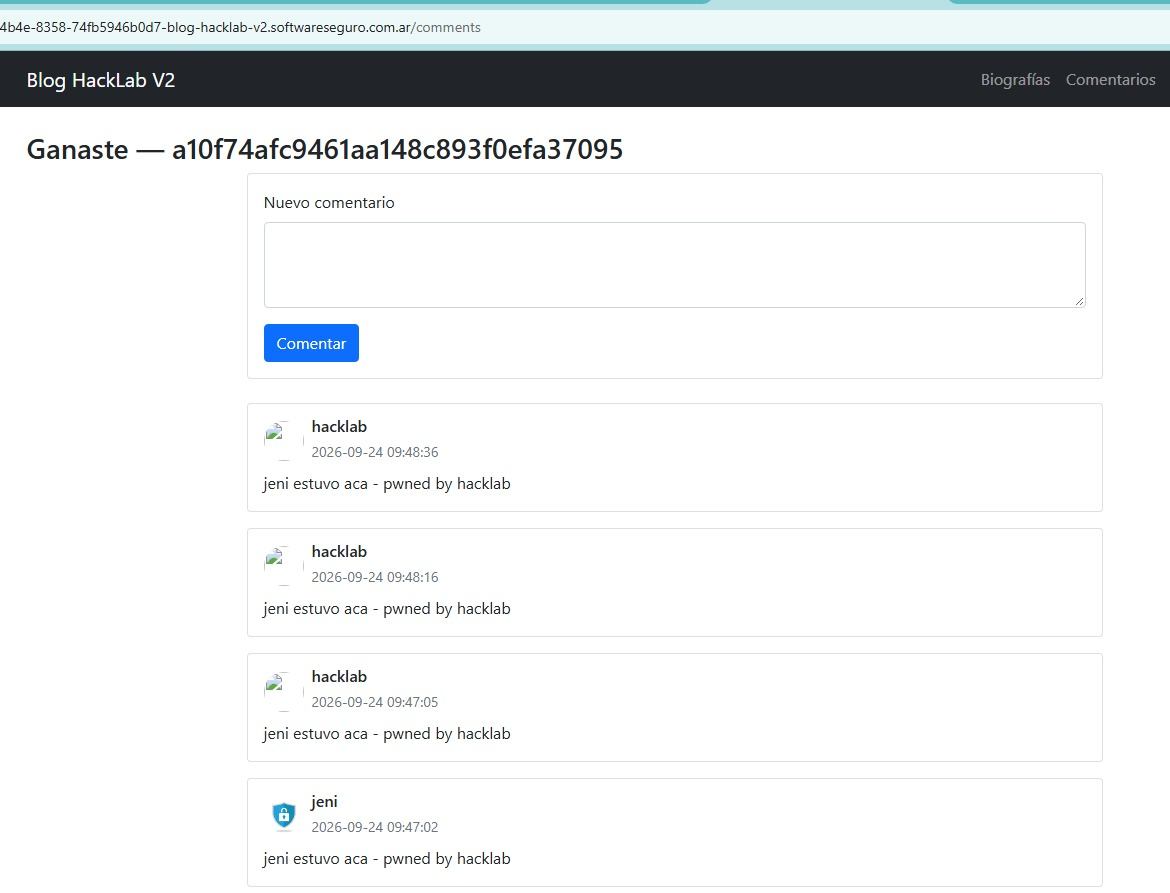
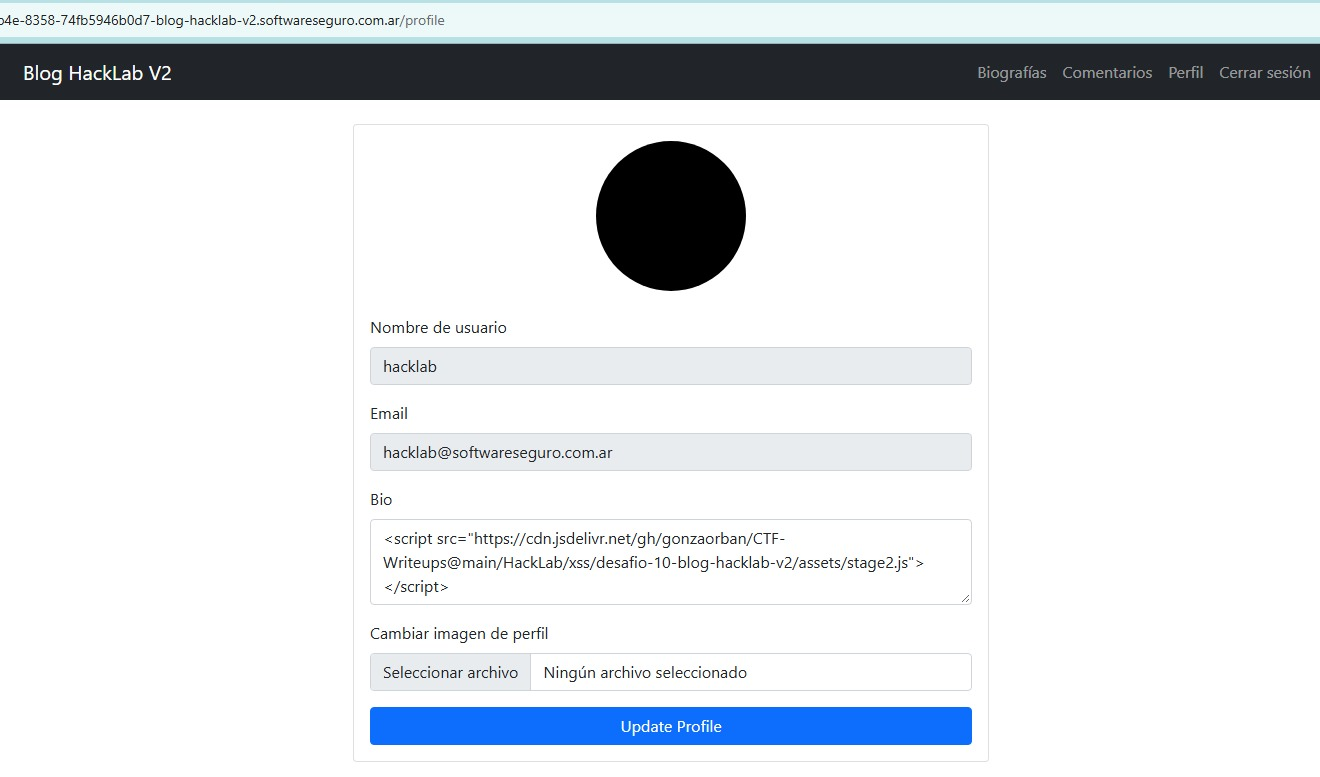
fix(HackLab/xss/desafio-10-blog-hacklab-v2): reordenar capturas y documentar prueba de no-sanitización
- 01.png: prueba de que la bio no se sanitiza (<b>xsstest</b> en negrita), movida a Análisis
- Renumeradas 02-04 (bio envenenada, payload en perfil, flag)
- README raíz: bloque Featured Techniques ahora cubre V1 (nonce) y V2 (script-src * + cadena de dos etapas)

diff --git a/HackLab/xss/desafio-10-blog-hacklab-v2/README.md b/HackLab/xss/desafio-10-blog-hacklab-v2/README.md
@@ -20,6 +20,10 @@ Las primitivas de la vulnerabilidad son las mismas del Desafío 9:
   <p class="mb-0 mt-2"><b>xsstest</b></p>
   ```
 
+  Cargando `/biographies`, la bio de `@pepe` aparece en negrita, lo que confirma que la bio no se sanitiza y que un `<script src>` inyectado ahí se ejecutará:
+
+  ![Desafío 10 - Blog HackLab V2 (HackLab 2026) - prueba: la bio <b>xsstest</b> se renderiza en negrita en /biographies](assets/01.png)
+
 - **CSP mal configurada** en el `<head>`:
 
   ```html
@@ -72,11 +76,11 @@ await fetch("/profile", {
 
 Como Pepe es experto, su bio ya envenenada pasa a mostrarse en `/biographies`:
 
-![Desafío 10 - Blog HackLab V2 (HackLab 2026) - bio de Pepe envenenada con el segundo script en /biographies](assets/01.png)
+![Desafío 10 - Blog HackLab V2 (HackLab 2026) - bio de Pepe envenenada con el segundo script en /biographies](assets/02.png)
 
 El payload almacenado se puede confirmar abriendo la sección Perfil: el campo Bio contiene el `<script src=".../stage2.js"></script>`.
 
-![Desafío 10 - Blog HackLab V2 (HackLab 2026) - payload almacenado visible en el campo Bio del perfil](assets/02.png)
+![Desafío 10 - Blog HackLab V2 (HackLab 2026) - payload almacenado visible en el campo Bio del perfil](assets/03.png)
 
 ### 2. `stage2.js` — comentar como Jeni (se ejecuta en `/biographies`)
 
@@ -103,7 +107,7 @@ La solución es dispararlo **dos veces**: el primer "Engañar" ceba la bio de Pe
 
 Al publicarse el comentario de Jeni, el blog muestra el mensaje de éxito con el flag. Se ve el comentario firmado por `jeni` y el encabezado "Ganaste":
 
-![Desafío 10 - Blog HackLab V2 (HackLab 2026) - comentario publicado como jeni y flag "Ganaste"](assets/03.png)
+![Desafío 10 - Blog HackLab V2 (HackLab 2026) - comentario publicado como jeni y flag "Ganaste"](assets/04.png)
 
 ## Flag
 

diff --git a/README.md b/README.md
@@ -67,10 +67,10 @@ Explotación de una condición de carrera en lógica de negocios ("El Analista")
 <details>
 <summary><strong>🛡 Web: XSS + CSRF Chaining & CSP Bypass</strong></summary>
 <br>
-Bypass de una Política de Seguridad de Contenido (CSP) estricta en "El blog de Pepe".
+Bypass de Políticas de Seguridad de Contenido (CSP) mal configuradas en el "Blog de HackLab", escalando Stored XSS a CSRF para forzar acciones en nombre de la víctima.
 <ul>
-  <li><strong>Técnica:</strong> Extracción de un <code>nonce</code> válido del código fuente para inyectar un bloque <code>&lt;script&gt;</code> autorizado.</li>
-  <li><strong>Impacto:</strong> El XSS se escala a un ataque CSRF utilizando jQuery (<code>$.post</code>) para forzar acciones en nombre de la víctima (publicar comentarios no deseados).</li>
+  <li><strong>V1 (bypass vía nonce):</strong> extracción de un <code>nonce</code> válido del código fuente para inyectar un bloque <code>&lt;script&gt;</code> autorizado. El XSS se escala a CSRF con jQuery (<code>$.post</code>) para publicar comentarios en nombre de la víctima.</li>
+  <li><strong>V2 (bypass vía <code>script-src *</code>):</strong> la CSP bloquea todo script inline pero el comodín <code>*</code> autoriza <code>&lt;script src&gt;</code> remoto (alojado en jsDelivr para pasar ORB). El ataque encadena <strong>dos etapas</strong> según dónde entra cada víctima: la etapa 1 corre en <code>/comments</code> y, vía <code>POST /profile</code> sin CSRF, envenena la bio de un usuario experto; esa bio se muestra en <code>/biographies</code>, la única sección que visita la segunda víctima, cuya carga dispara la etapa 2 (<code>POST /comment</code> con su sesión).</li>
 </ul>
 </details>
 
